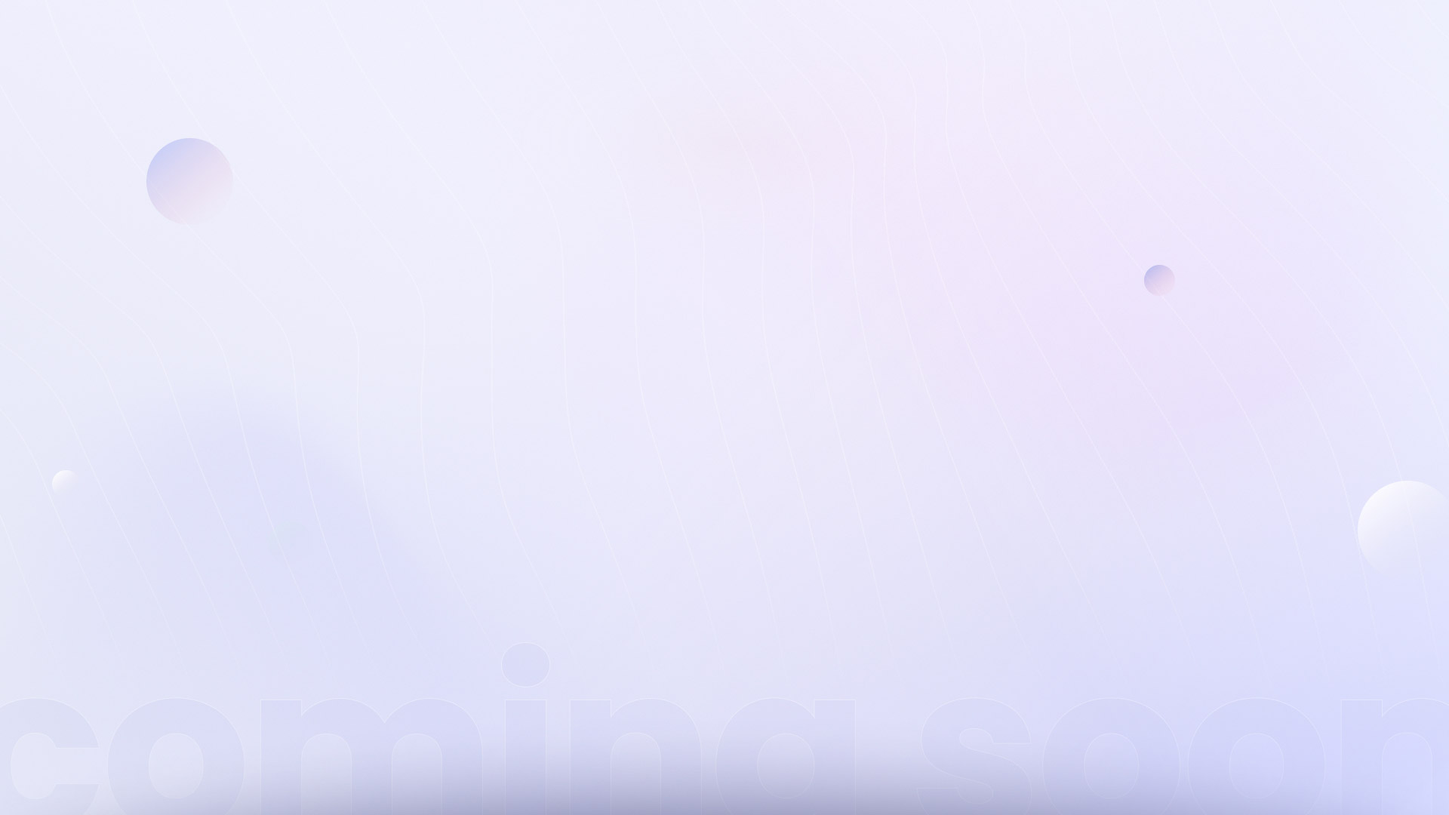
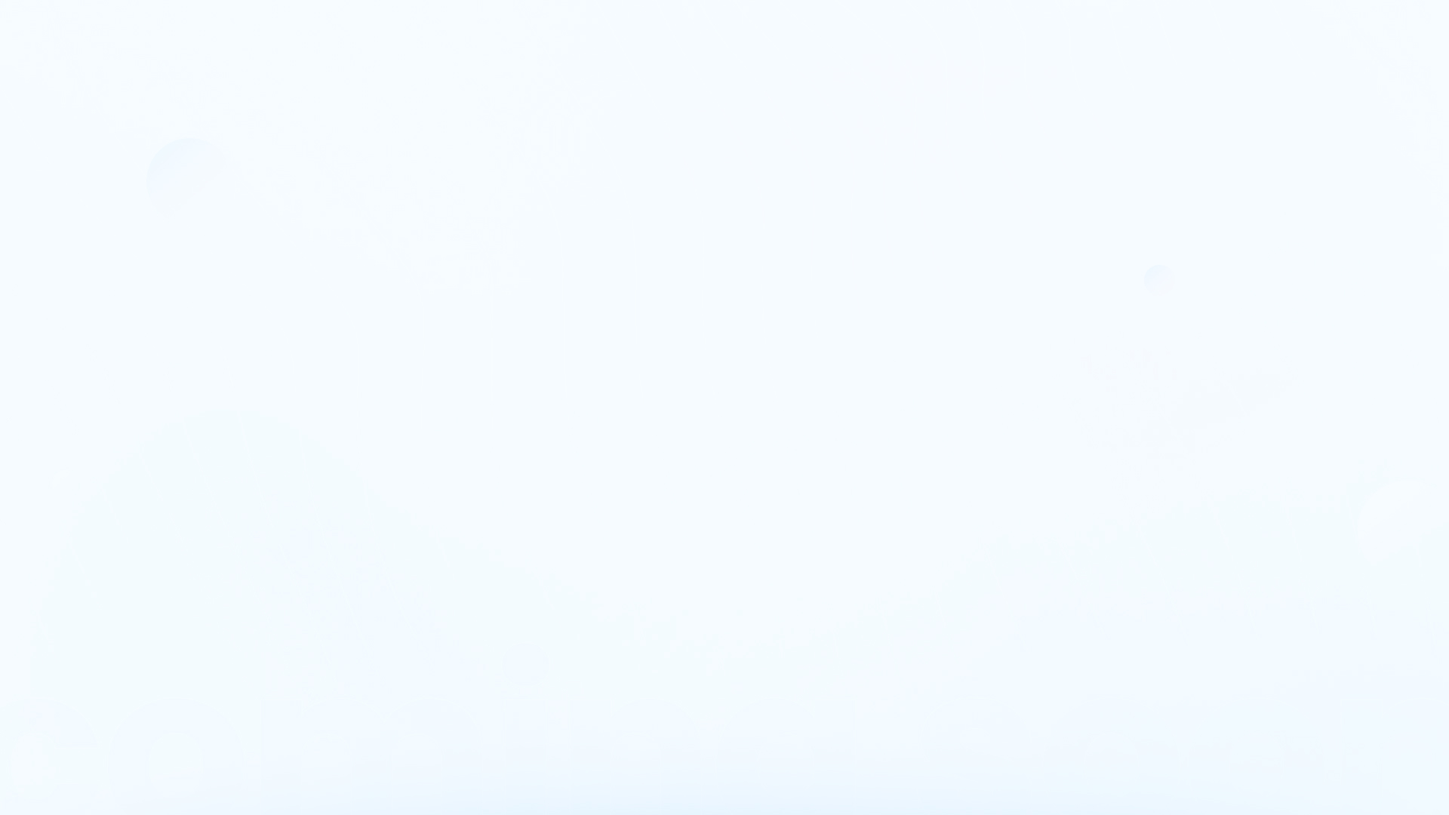
coming soon

Changed region(s): [[0.0, 0.3972, 1.0, 1.0], [0.0938, 0.1528, 0.1562, 0.275], [0.7812, 0.3056, 0.8125, 0.3667]]

diff --git a/index.html b/index.html
@@ -16,44 +16,174 @@
         <link rel="preconnect" href="https://fonts.googleapis.com" crossorigin>
         <link rel="preconnect" href="https://fonts.gstatic.com" crossorigin>
         <!-- style sheets and font icons  -->
-        <link rel="stylesheet" href="css/vendors.min.css"/>
-        <link rel="stylesheet" href="css/icon.min.css"/>
-        <link rel="stylesheet" href="css/style.css"/>
-        <link rel="stylesheet" href="css/responsive.css"/>
+
+        <style>
+            h1,h6,p,ul{margin-top:0}.container,.row{--bs-gutter-x:1.5rem;--bs-gutter-y:0}.form-control,body{background-color:var(--bs-body-bg);color:var(--bs-body-color)}.btn,a{text-decoration:none}.btn,img{vertical-align:middle}.feather,button{text-transform:none}*,::after,::before{box-sizing:border-box}.form-control{-webkit-appearance:none;display:block}::file-selector-button,button{-webkit-appearance:button}:root{--bs-blue:#0d6efd;--bs-indigo:#6610f2;--bs-purple:#6f42c1;--bs-pink:#d63384;--bs-red:#dc3545;--bs-orange:#fd7e14;--bs-yellow:#ffc107;--bs-green:#198754;--bs-teal:#20c997;--bs-cyan:#0dcaf0;--bs-black:#000;--bs-white:#fff;--bs-gray:#6c757d;--bs-gray-dark:#343a40;--bs-gray-100:#f8f9fa;--bs-gray-200:#e9ecef;--bs-gray-300:#dee2e6;--bs-gray-400:#ced4da;--bs-gray-500:#adb5bd;--bs-gray-600:#6c757d;--bs-gray-700:#495057;--bs-gray-800:#343a40;--bs-gray-900:#212529;--bs-primary:#0d6efd;--bs-secondary:#6c757d;--bs-success:#198754;--bs-info:#0dcaf0;--bs-warning:#ffc107;--bs-danger:#dc3545;--bs-light:#f8f9fa;--bs-dark:#212529;--bs-primary-rgb:13,110,253;--bs-secondary-rgb:108,117,125;--bs-success-rgb:25,135,84;--bs-info-rgb:13,202,240;--bs-warning-rgb:255,193,7;--bs-danger-rgb:220,53,69;--bs-light-rgb:248,249,250;--bs-dark-rgb:33,37,41;--bs-primary-text-emphasis:#052c65;--bs-secondary-text-emphasis:#2b2f32;--bs-success-text-emphasis:#0a3622;--bs-info-text-emphasis:#055160;--bs-warning-text-emphasis:#664d03;--bs-danger-text-emphasis:#58151c;--bs-light-text-emphasis:#495057;--bs-dark-text-emphasis:#495057;--bs-primary-bg-subtle:#cfe2ff;--bs-secondary-bg-subtle:#e2e3e5;--bs-success-bg-subtle:#d1e7dd;--bs-info-bg-subtle:#cff4fc;--bs-warning-bg-subtle:#fff3cd;--bs-danger-bg-subtle:#f8d7da;--bs-light-bg-subtle:#fcfcfd;--bs-dark-bg-subtle:#ced4da;--bs-primary-border-subtle:#9ec5fe;--bs-secondary-border-subtle:#c4c8cb;--bs-success-border-subtle:#a3cfbb;--bs-info-border-subtle:#9eeaf9;--bs-warning-border-subtle:#ffe69c;--bs-danger-border-subtle:#f1aeb5;--bs-light-border-subtle:#e9ecef;--bs-dark-border-subtle:#adb5bd;--bs-white-rgb:255,255,255;--bs-black-rgb:0,0,0;--bs-font-sans-serif:system-ui,-apple-system,"Segoe UI",Roboto,"Helvetica Neue","Noto Sans","Liberation Sans",Arial,sans-serif,"Apple Color Emoji","Segoe UI Emoji","Segoe UI Symbol","Noto Color Emoji";--bs-font-monospace:SFMono-Regular,Menlo,Monaco,Consolas,"Liberation Mono","Courier New",monospace;--bs-gradient:linear-gradient(180deg, rgba(255, 255, 255, 0.15), rgba(255, 255, 255, 0));--bs-body-font-family:var(--bs-font-sans-serif);--bs-body-font-size:1rem;--bs-body-font-weight:400;--bs-body-line-height:1.5;--bs-body-color:#212529;--bs-body-color-rgb:33,37,41;--bs-body-bg:#fff;--bs-body-bg-rgb:255,255,255;--bs-emphasis-color:#000;--bs-emphasis-color-rgb:0,0,0;--bs-secondary-color:rgba(33, 37, 41, 0.75);--bs-secondary-color-rgb:33,37,41;--bs-secondary-bg:#e9ecef;--bs-secondary-bg-rgb:233,236,239;--bs-tertiary-color:rgba(33, 37, 41, 0.5);--bs-tertiary-color-rgb:33,37,41;--bs-tertiary-bg:#f8f9fa;--bs-tertiary-bg-rgb:248,249,250;--bs-heading-color:inherit;--bs-link-color:#0d6efd;--bs-link-color-rgb:13,110,253;--bs-link-decoration:underline;--bs-link-hover-color:#0a58ca;--bs-link-hover-color-rgb:10,88,202;--bs-code-color:#d63384;--bs-highlight-color:#212529;--bs-highlight-bg:#fff3cd;--bs-border-width:1px;--bs-border-style:solid;--bs-border-color:#dee2e6;--bs-border-color-translucent:rgba(0, 0, 0, 0.175);--bs-border-radius:0.375rem;--bs-border-radius-sm:0.25rem;--bs-border-radius-lg:0.5rem;--bs-border-radius-xl:1rem;--bs-border-radius-xxl:2rem;--bs-border-radius-2xl:var(--bs-border-radius-xxl);--bs-border-radius-pill:50rem;--bs-box-shadow:0 0.5rem 1rem rgba(0, 0, 0, 0.15);--bs-box-shadow-sm:0 0.125rem 0.25rem rgba(0, 0, 0, 0.075);--bs-box-shadow-lg:0 1rem 3rem rgba(0, 0, 0, 0.175);--bs-box-shadow-inset:inset 0 1px 2px rgba(0, 0, 0, 0.075);--bs-focus-ring-width:0.25rem;--bs-focus-ring-opacity:0.25;--bs-focus-ring-color:rgba(13, 110, 253, 0.25);--bs-form-valid-color:#198754;--bs-form-valid-border-color:#198754;--bs-form-invalid-color:#dc3545;--bs-form-invalid-border-color:#dc3545;--bs-carousel-indicator-active-bg:#fff;--bs-carousel-caption-color:#fff;--bs-breakpoint-xs:0;--bs-breakpoint-sm:576px;--bs-breakpoint-md:768px;--bs-breakpoint-lg:992px;--bs-breakpoint-xl:1200px;--bs-breakpoint-xxl:1400px;--swiper-theme-color:#007aff;--swiper-navigation-size:44px;--alt-font:"Plus Jakarta Sans",sans-serif;--primary-font:"Inter",sans-serif;--base-color:#2946f3;--white:#ffffff;--black:#000000;--red:#dc3131;--light-red:#feedec;--green:#2ebb79;--crusoe-green:#d39121;--yellow:#ffea23;--dark-gray:#232323;--medium-gray:#717580;--extra-medium-gray:#e4e4e4;--light-gray:#a8a8a8;--very-light-gray:#f7f7f7;--light-medium-gray:#eaeaeb;--charcoal-blue:#202329;--slate-blue:#262b35;--medium-slate-blue:#374162;--extra-medium-slate-blue:#23262d;--dark-slate-blue:#1f232c;--extra-dark-slate-blue:#121418;--extra-very-slate-blue:#161620;--tussock-yellow:#BC8947;--aluminium-gray:#80858F;--solitude-blue:#f0f4fd;--golden-yellow:#fd961e;--selago:#eaedff;--white-ice:#d8f5ef;--cornflower-blue:#445fed;--jade:#00AF6B;--orange:#ef991f;--majorelle-blue:#724ade;--light-majorelle-blue:#f2edfe;--spring-wood:#f9f6f3;--tropical-blue:#1ea3b1;--camarone:#20642b;--seal-brown:#0e0708;--Wasabi:#8ea63a}body{margin:0;font-family:var(--bs-body-font-family);font-size:var(--bs-body-font-size);font-weight:var(--bs-body-font-weight);line-height:var(--bs-body-line-height);text-align:var(--bs-body-text-align);-webkit-text-size-adjust:100%}h1,h6{font-weight:500;color:var(--bs-heading-color)}p,ul{margin-bottom:1rem}ul{padding-left:2rem}a{color:rgba(var(--bs-link-color-rgb),var(--bs-link-opacity,1));color:var(--medium-gray)}img{max-width:100%;height:auto}button{border-radius:0}button,input{margin:0;font-family:inherit;font-size:inherit;line-height:inherit}body,html{font-size:16px}::-moz-focus-inner{padding:0;border-style:none}::-webkit-datetime-edit-day-field,::-webkit-datetime-edit-fields-wrapper,::-webkit-datetime-edit-hour-field,::-webkit-datetime-edit-minute,::-webkit-datetime-edit-month-field,::-webkit-datetime-edit-text,::-webkit-datetime-edit-year-field{padding:0}::-webkit-inner-spin-button{height:auto}::-webkit-search-decoration{-webkit-appearance:none}::-webkit-color-swatch-wrapper{padding:0}.container,.row>*{width:100%;padding-right:calc(var(--bs-gutter-x) * .5);padding-left:calc(var(--bs-gutter-x) * .5)}::-webkit-file-upload-button{font:inherit;-webkit-appearance:button}::file-selector-button{font:inherit}.form-control{font-weight:400;line-height:1.5;-moz-appearance:none;appearance:none;background-clip:padding-box;border:var(--bs-border-width) solid var(--bs-border-color);border-radius:var(--bs-border-radius);background-position:right 20px center!important}.container{margin-right:auto;margin-left:auto}@media (min-width:576px){.container{max-width:540px}}.row{flex-wrap:wrap;display:flex;margin-top:calc(-1 * var(--bs-gutter-y));margin-right:calc(-.5 * var(--bs-gutter-x));margin-left:calc(-.5 * var(--bs-gutter-x))}.row>*{flex-shrink:0;max-width:100%;margin-top:var(--bs-gutter-y)}@media (min-width:768px){.container{max-width:720px}.col-md-12{flex:0 0 auto;width:100%}}@media (min-width:992px){.container{max-width:960px}.col-lg-10{flex:0 0 auto;width:83.33333333%}}@media (min-width:1200px){h1{font-size:2.5rem}.container{max-width:1140px}.col-xl-8{flex:0 0 auto;width:66.66666667%}}.form-control::-webkit-date-and-time-value{min-width:85px;height:1.5em;margin:0}.form-control::-webkit-datetime-edit{display:block;padding:0}.form-control::-webkit-file-upload-button{padding:.375rem .75rem;margin:-.375rem -.75rem;-webkit-margin-end:.75rem;margin-inline-end:.75rem;color:var(--bs-body-color);background-color:var(--bs-tertiary-bg);border:0 solid;border-inline-end-width:var(--bs-border-width);border-radius:0;border-color:inherit}.btn{--bs-btn-padding-x:0.75rem;--bs-btn-padding-y:0.375rem;--bs-btn-font-size:1rem;--bs-btn-font-weight:400;--bs-btn-line-height:1.5;--bs-btn-color:var(--bs-body-color);--bs-btn-bg:transparent;--bs-btn-border-width:var(--bs-border-width);--bs-btn-border-color:transparent;--bs-btn-border-radius:var(--bs-border-radius);--bs-btn-hover-border-color:transparent;--bs-btn-box-shadow:inset 0 1px 0 rgba(255, 255, 255, 0.15),0 1px 1px rgba(0, 0, 0, 0.075);--bs-btn-disabled-opacity:0.65;--bs-btn-focus-box-shadow:0 0 0 0.25rem rgba(var(--bs-btn-focus-shadow-rgb), .5);padding:var(--bs-btn-padding-y) var(--bs-btn-padding-x);font-family:var(--bs-btn-font-family);font-size:var(--bs-btn-font-size);font-weight:var(--bs-btn-font-weight);line-height:var(--bs-btn-line-height);color:var(--bs-btn-color);text-align:center;border:var(--bs-btn-border-width) solid var(--bs-btn-border-color);border-radius:var(--bs-btn-border-radius);background-color:var(--bs-btn-bg)}.fa-brands,.feather{font-style:normal;font-variant:normal;line-height:1}.align-middle{vertical-align:middle!important}.overflow-auto{overflow:auto!important}.d-inline-block{display:inline-block!important}.d-none{display:none!important}.position-relative{position:relative!important}.position-absolute{position:absolute!important}.top-0{top:0!important}.h-100{height:100%!important}.justify-content-center{justify-content:center!important}.align-items-center{align-items:center!important}.mx-auto{margin-right:auto!important;margin-left:auto!important}.mb-0{margin-bottom:0!important}.text-center{text-align:center!important}.bg-white{--bs-bg-opacity:1;background-color:rgba(var(--bs-white-rgb),var(--bs-bg-opacity))!important}button::-moz-focus-inner{padding:0;border:0}:host{position:relative;display:block;margin-left:auto;margin-right:auto;z-index:1}.fa-brands{--_fa-family:var(--fa-family, var(--fa-style-family, "Font Awesome 7 Free"));-webkit-font-smoothing:antialiased;-moz-osx-font-smoothing:grayscale;display:var(--fa-display,inline-block);font-family:var(--_fa-family);font-feature-settings:normal;font-synthesis:none;font-weight:var(--fa-style,900);text-align:center;text-rendering:auto;width:auto;--fa-family:var(--fa-family-brands);--fa-style:400}.btn,.elements-social ul li,[class*=feather]{display:inline-block}.feather,body{font-weight:400;-moz-osx-font-smoothing:grayscale;-webkit-font-smoothing:antialiased}.feather{font-family:feather!important;speak:none}:host,:root{--fa-family-brands:"Font Awesome 7 Brands";--fa-font-brands:normal 400 1em/1 var(--fa-family-brands);--fa-font-regular:normal 400 1em/1 var(--fa-family-classic);--fa-family-classic:"Font Awesome 7 Free";--fa-font-solid:normal 900 1em/1 var(--fa-family-classic);--fa-style-family-classic:var(--fa-family-classic)}.fa-twitter{--fa:""}.fa-linkedin-in{--fa:""}.fa-instagram{--fa:""}.fa-dribbble{--fa:""}.fa-facebook-f{--fa:""}@font-face{font-family:feather;src:url(../fonts/feather.eot?t=1525787366991);src:url(../fonts/feather.eot?t=1525787366991#iefix) format("embedded-opentype"),url(../fonts/feather.woff?t=1525787366991) format("woff"),url(../fonts/feather.ttf?t=1525787366991) format("truetype"),url(../fonts/feather.svg?t=1525787366991#feather) format("svg")}.icon-feather-mail:before{content:"\e88a"}body{font-family:var(--primary-font);line-height:30px;color:var(--medium-gray);word-break:break-word}section{padding-top:110px;padding-bottom:110px}[class*=" social-icon-"] ul,ul li{list-style:none}p{margin-bottom:25px}:focus-visible{outline:0}.container,.row>*{padding-right:15px;padding-left:15px}.row{margin-right:-15px;margin-left:-15px}h1,h6{margin-bottom:30px;letter-spacing:-.5px;font-weight:inherit}.fs-70,h1{font-size:4.375rem;line-height:4.375rem}h6{font-size:1.75rem;line-height:1.95rem}.text-transform-none{text-transform:none!important}.fs-14{font-size:14px}.fs-15{font-size:15px}.elements-social .dark li a,.text-dark-gray{color:var(--dark-gray)}.ls-0px{letter-spacing:0!important}.ls-minus-2px{letter-spacing:-2px!important}.icon-small{font-size:18px}.box-shadow-extra-large{-webkit-box-shadow:0 0 30px rgba(0,0,0,.08);box-shadow:0 0 30px rgba(0,0,0,.08)}.form-control,input{padding:12px 25px;width:100%;max-width:100%;resize:none;outline:0;font-size:16px;border:1px solid var(--extra-medium-gray);color:var(--medium-gray);line-height:inherit;word-break:normal}::-webkit-input-placeholder{color:var(--medium-gray)!important;text-overflow:ellipsis}::-moz-placeholder{color:var(--medium-gray)!important;text-overflow:ellipsis;opacity:1}:-ms-input-placeholder{color:var(--medium-gray)!important;text-overflow:ellipsis;opacity:1}.input-large{padding:16px 32px}.full-screen{height:100vh}[data-anime]{opacity:0}[data-anime].appear{opacity:1}.cover-background{background-repeat:no-repeat!important;background-size:cover;overflow:hidden;position:relative;background-position:center center!important}.border-color-transparent{border-color:transparent!important}.border-radius-5px{border-radius:5px!important}.border-radius-100px{border-radius:100px!important}.w-80{width:80%!important}.w-100{width:100%!important}@media (prefers-reduced-motion:no-preference){:root{scroll-behavior:smooth;scroll-behavior:auto}}.p-15px{padding:15px!important}.mt-15px{margin-top:15px!important}.mt-9{margin-top:9%!important}.mb-10px{margin-bottom:10px!important}.mb-8{margin-bottom:8%!important}.mb-9{margin-bottom:9%!important}.mb-10{margin-bottom:10%!important}.fw-600{font-weight:600!important}.fw-700{font-weight:700!important}.z-index-2{z-index:2}.btn{border:2px solid transparent;border-radius:0;text-transform:uppercase;letter-spacing:.5px;width:auto;font-family:var(--alt-font);font-weight:500}.btn i{position:relative;margin-left:6px}.btn.btn-extra-large{font-size:16px;padding:24px 46px}.left-icon i{margin-right:6px;margin-left:0}.countdown-style-03 .countdown-box{width:130px;display:inline-block;margin:0 15px;text-align:center}.countdown-style-03 .countdown-box .number{color:var(--dark-gray);font-size:4.3rem;line-height:4.3rem;font-family:var(--alt-font);letter-spacing:-1px;font-weight:700}.countdown-style-03 .countdown-box span{color:var(--medium-gray);text-transform:uppercase;font-size:14px;line-height:16px;font-weight:500}canvas{display:block;vertical-align:bottom}.elements-social ul{margin-bottom:0;list-style:none;padding:0}.elements-social ul li:first-child{margin-left:0!important}.elements-social ul li:last-child{margin-right:0!important}.elements-social ul li a{text-align:center;display:flex;align-items:center;justify-content:center}.medium-icon li{margin:0 8px}.medium-icon a{font-size:20px;width:50px;height:50px}.newsletter-style-03 input{padding-right:165px!important;padding-left:30px!important}.newsletter-style-03 .btn{position:absolute;right:0;top:0;border-radius:0 100px 100px 0;height:100%;padding:12px 35px 12px 30px}.newsletter-style-03 .form-control{background-image:inherit}@media (min-width:1400px){.col-xxl-7{flex:0 0 auto;width:58.33333333%}.container{max-width:1220px}}@media (max-width:1600px){section{padding-top:90px;padding-bottom:90px}}@media (max-width:1199px){.lg-w-100{width:100%!important}.lg-mb-15{margin-bottom:15%!important}}@media (max-width:991px){html{font-size:14px}section{padding-top:75px;padding-bottom:75px}.md-mb-50px{margin-bottom:50px!important}.md-mb-6{margin-bottom:6%!important}}@media (max-width:575px){.medium-icon li{margin:0 6px}}@media (max-width:767px){html{font-size:12px}section{padding-top:50px;padding-bottom:50px}h1,h6{margin-bottom:25px}.btn.btn-extra-large{font-size:15px;padding:20px 40px}.countdown-style-03 .countdown-box{width:50%;margin:0 0 30px}.elements-social ul li{margin-bottom:20px}.newsletter-style-03 input{padding-right:90px!important;padding-left:30px!important}.newsletter-style-03 .btn{padding:12px 30px}.newsletter-style-03 .btn i{margin-left:0;margin-right:0}.newsletter-style-03 .btn span{display:none}}
+        @font-face {
+            font-family: "feather";
+            src: url("./fonts/feather.eot?t=1525787366991"); /* IE9*/
+            src: url("./fonts/feather.eot?t=1525787366991#iefix") format("embedded-opentype"), url("./fonts/feather.woff?t=1525787366991") format("woff"), url("./fonts/feather.ttf?t=1525787366991") format("truetype"), url("./fonts/feather.svg?t=1525787366991#feather") format("svg"); /* iOS 4.1- */
+            }
+            .feather {
+            /* use !important to prevent issues with browser extensions that change fonts */
+            font-family: "feather" !important;
+            speak: none;
+            font-style: normal;
+            font-weight: normal;
+            font-variant: normal;
+            text-transform: none;
+            line-height: 1;
+            -webkit-font-smoothing: antialiased;
+            -moz-osx-font-smoothing: grayscale;
+            }
+
+            .fa-solid,
+        .fa-regular,
+        .fa-brands,
+        .fa-classic,
+        .fas,
+        .far,
+        .fab,
+        .fa {
+        --_fa-family: var(--fa-family, var(--fa-style-family, "Font Awesome 7 Free"));
+        -webkit-font-smoothing: antialiased;
+        -moz-osx-font-smoothing: grayscale;
+        display: var(--fa-display, inline-block);
+        font-family: var(--_fa-family);
+        font-feature-settings: normal;
+        font-style: normal;
+        font-synthesis: none;
+        font-variant: normal;
+        font-weight: var(--fa-style, 900);
+        line-height: 1;
+        text-align: center;
+        text-rendering: auto;
+        width: auto;
+        }
+
+        :is(.fas,
+.far,
+.fab,
+.fa-solid,
+.fa-regular,
+.fa-brands,
+.fa-classic,
+.fa)::before {
+  content: var(--fa);
+  content: var(--fa)/"";
+}
+
+            .fa-facebook-f {
+            --fa: "";
+            }
+
+            :root, :host {
+            --fa-family-brands: "Font Awesome 7 Brands";
+            --fa-font-brands: normal 400 1em/1 var(--fa-family-brands);
+            }
+
+            @font-face {
+            font-family: "Font Awesome 7 Brands";
+            font-style: normal;
+            font-weight: 400;
+            font-display: block;
+            src: url("./fonts/fa-brands-400.woff2");
+            }
+            .fab,
+            .fa-brands,
+            .fa-classic.fa-brands {
+            --fa-family: var(--fa-family-brands);
+            --fa-style: 400;
+            }
+
+            .form-control.is-invalid, .was-validated .form-control:invalid {
+  border-color: #dc3545 !important;
+}
+.btn {
+    cursor: pointer;
+}
+.btn:hover {
+  color: var(--bs-btn-hover-color);
+  background-color: var(--bs-btn-hover-bg);
+  border-color: var(--bs-btn-hover-border-color);
+}
+.header-logo {
+    height: 80px;
+}
+.fs-70, h1 {
+    font-size: 3.075rem;
+    line-height: 3.075rem;
+}
+.mb-20px {
+    margin-bottom: 20px;
+}
+
+@media (max-width: 991px) {
+
+    h6 {
+        font-size: 16px;
+        width: 80%;
+        text-align: center;
+        margin: 0 auto;
+    }
+    .countdown-style-03 .countdown-box {
+  width: 130px;
+  display: inline-block;
+  margin: 0 15px;
+  text-align: center;
+}
+.countdown-style-03 .countdown-box .number {
+  color: var(--dark-gray);
+  font-size: 3.3rem;
+  line-height: 4rem;
+  font-family: var(--alt-font);
+  letter-spacing: -1px;
+  font-weight: 700;
+}
+.countdown-style-03 .countdown-box span {
+  color: var(--medium-gray);
+  text-transform: uppercase;
+  font-size: 14px;
+  line-height: 16px;
+  font-weight: 500;
+}
+
+}
+
+
+
+        </style>
     </head>
     <body>
         <!-- start section -->  
         <section class="cover-background overflow-auto full-screen position-relative" style="background-image: url(images/coming-soon-bg.jpg);">
-            <div id="particles-style-01" class="position-absolute h-100 top-0 left-0 w-100" data-particle="true" data-particle-options='{"particles":{"number":{"value":10,"density":{"enable":true,"value_area":800}},"color":{"value":"#b0b4e2"},"shape":{"type":"circle","stroke":{"width":0,"color":"#000000"},"polygon":{"nb_sides":5},"image":{"src":"img/github.svg","width":100,"height":100}},"opacity":{"value":1,"random":false,"anim":{"enable":false,"speed":1,"opacity_min":0.1,"sync":false}},"size":{"value":4,"random":true,"anim":{"enable":false,"speed":40,"size_min":0.1,"sync":false}},"line_linked":{"enable":false,"distance":150,"color":"#ffffff","opacity":0.4,"width":1},"move":{"enable":true,"speed":6,"direction":"none","random":false,"straight":false,"out_mode":"out","bounce":false,"attract":{"enable":false,"rotateX":600,"rotateY":1200}}},"interactivity":{"detect_on":"canvas","events":{"onhover":{"enable":true,"mode":"repulse"},"onclick":{"enable":true,"mode":"push"},"resize":true},"modes":{"grab":{"distance":400,"line_linked":{"opacity":1}},"bubble":{"distance":400,"size":40,"duration":2,"opacity":8,"speed":3},"repulse":{"distance":200,"duration":0.4},"push":{"particles_nb":4},"remove":{"particles_nb":2}}},"retina_detect":true}'></div>
+            <div id="particles-style-01" class="position-absolute h-100 top-0 left-0 w-100" data-particle="true" data-particle-options='{"particles":{"number":{"value":10,"density":{"enable":true,"value_area":800}},"color":{"value":"#49d4ff"},"shape":{"type":"circle","stroke":{"width":0,"color":"#000000"},"polygon":{"nb_sides":5},"image":{"src":"img/github.svg","width":100,"height":100}},"opacity":{"value":1,"random":false,"anim":{"enable":false,"speed":1,"opacity_min":0.1,"sync":false}},"size":{"value":4,"random":true,"anim":{"enable":false,"speed":40,"size_min":0.1,"sync":false}},"line_linked":{"enable":false,"distance":150,"color":"#ffffff","opacity":0.4,"width":1},"move":{"enable":true,"speed":6,"direction":"none","random":false,"straight":false,"out_mode":"out","bounce":false,"attract":{"enable":false,"rotateX":600,"rotateY":1200}}},"interactivity":{"detect_on":"canvas","events":{"onhover":{"enable":true,"mode":"repulse"},"onclick":{"enable":true,"mode":"push"},"resize":true},"modes":{"grab":{"distance":400,"line_linked":{"opacity":1}},"bubble":{"distance":400,"size":40,"duration":2,"opacity":8,"speed":3},"repulse":{"distance":200,"duration":0.4},"push":{"particles_nb":4},"remove":{"particles_nb":2}}},"retina_detect":true}'></div>
             <div class="container h-100">
                 <div class="row align-items-center justify-content-center h-100 z-index-2 position-relative">
                     <div class="col-md-12 col-lg-10 col-xl-8 col-xxl-7 text-center" data-anime='{ "el": "childs", "translateY": [50, 0], "opacity": [0,1], "duration": 600, "delay": 0, "staggervalue": 300, "easing": "easeOutQuad" }'>
-                        <a class="mb-10 md-mb-50px d-inline-block" href="index.html"> 
-                            <img src="images/logo-black-big.png" data-at2x="images/logo-black-big@2x.png" alt="">
+                        <a class="mb-20px d-inline-block" href="index.html"> 
+                            <img class="header-logo" src="images/celtrev-logo.png" data-at2x="images/celtrev-logo.png" alt="">
                         </a>
                         <h1 class="fw-700 fs-70 mb-10px text-dark-gray ls-minus-2px">Coming soon!</h1>
-                        <h6 class="text-dark-gray mb-0">We're getting ready to launch!</h6>
+                        <h6 class="text-dark-gray mt-15px mb-0">¡Estamos preparando una mejor experiencia para ti!</h6>
                         <div class="countdown-style-03 mb-9 mt-9">
-                            <div data-enddate="2026/08/08 12:00:00" class="countdown"></div>
+                            <div data-enddate="2025/10/22 12:00:00" class="countdown"></div>
                         </div>
-                        <div class="d-inline-block w-100 newsletter-style-03 position-relative mb-8 lg-mb-15 md-mb-6">
+                        <div class="d-inline-block w-100 newsletter-style-03 position-relative mb-8 md-mb-6">
                             <form action="email-templates/subscribe-newsletter.php" method="post" class="position-relative lg-w-100 w-80 mx-auto">
                                 <div class="position-relative">
-                                    <input class="input-large bg-white border-color-transparent w-100 border-radius-5px box-shadow-extra-large form-control required" type="email" name="email" placeholder="Enter your email address" />
+                                    <input class="input-large bg-white border-color-transparent w-100 border-radius-5px box-shadow-extra-large form-control required" type="email" name="email" placeholder="Escribe tu correo" />
                                     <input type="hidden" name="redirect" value="">
-                                    <button class="btn btn-extra-large text-dark-gray ls-0px left-icon submit text-transform-none fw-600" aria-label="submit"><i class="icon feather icon-feather-mail icon-small align-middle"></i><span>Notify me</span></button>
+                                    <button class="btn btn-extra-large text-dark-gray ls-0px left-icon submit text-transform-none fw-600" aria-label="submit"><i class="icon feather icon-feather-mail icon-small align-middle"></i><span>Notifícame</span></button>
                                 </div>
                                 <div class="form-results border-radius-100px mt-15px p-15px fs-15 w-100 text-center d-none"></div>
                             </form> 
-                            <p class="fs-14 mt-15px mb-0">Subscribe our newsletter to get update when it'll be live.</p>
+                            <p class="fs-14 mt-15px mb-0">Suscríbete para recibir un correo cuando lancemos.</p>
                         </div>
                         <div class="elements-social social-icon-style-08">
                             <ul class="medium-icon dark">
-                                <li class="mb-0"><a class="facebook" href="https://www.facebook.com/" target="_blank"><i class="fa-brands fa-facebook-f"></i></a></li>
-                                <li class="mb-0"><a class="dribbble" href="http://www.dribbble.com" target="_blank"><i class="fa-brands fa-dribbble"></i></a></li>
-                                <li class="mb-0"><a class="twitter" href="http://www.twitter.com" target="_blank"><i class="fa-brands fa-twitter"></i></a></li>
-                                <li class="mb-0"><a class="instagram" href="http://www.instagram.com" target="_blank"><i class="fa-brands fa-instagram"></i></a></li>
-                                <li class="mb-0"><a class="linkedin" href="http://www.linkedin.com" target="_blank"><i class="fa-brands fa-linkedin-in"></i></a></li>
+                                <li class="mb-0"><a class="instagram" href="https://www.instagram.com/celtrevaudiovisual" target="_blank"><i class="fa-brands fa-instagram"></i></a></li>
+                                <li class="mb-0"><a class="linkedin" href="https://www.linkedin.com/company/celtrev-audiovisual/" target="_blank"><i class="fa-brands fa-linkedin-in"></i></a></li>
                             </ul>
                         </div>
                     </div>

diff --git a/js/main.js b/js/main.js
@@ -1213,9 +1213,9 @@
         $('.countdown').each(function () {
             var _this = $(this);
             _this.countdown(_this.attr("data-enddate")).on('update.countdown', function (event) {
-                _this.html(event.strftime('' + '<div class="counter-container"><div class="countdown-box first"><div class="number">%-D</div><span>Days</span></div>' + '<div class="countdown-box"><div class="number">%H</div><span>Hours</span></div>' + '<div class="countdown-box"><div class="number">%M</div><span>Minutes</span></div>' + '<div class="countdown-box last"><div class="number">%S</div><span>Seconds</span></div></div>'));
+                _this.html(event.strftime('' + '<div class="counter-container"><div class="countdown-box first"><div class="number">%-D</div><span>Días</span></div>' + '<div class="countdown-box"><div class="number">%H</div><span>Horas</span></div>' + '<div class="countdown-box"><div class="number">%M</div><span>Minutos</span></div>' + '<div class="countdown-box last"><div class="number">%S</div><span>Segundos</span></div></div>'));
             }).on('finish.countdown', function (event) {
-                _this.html(event.strftime('' + '<div class="counter-container"><div class="countdown-box first" data-number="00"><div class="number">00</div><span>Days</span></div>' + '<div class="countdown-box"><div class="number">00</div><span>Hours</span></div>' + '<div class="countdown-box"><div class="number">00</div><span>Minutes</span></div>' + '<div class="countdown-box last"><div class="number">00</div><span>Seconds</span></div></div>'));
+                _this.html(event.strftime('' + '<div class="counter-container"><div class="countdown-box first" data-number="00"><div class="number">00</div><span>Días</span></div>' + '<div class="countdown-box"><div class="number">00</div><span>Horas</span></div>' + '<div class="countdown-box"><div class="number">00</div><span>Minutos</span></div>' + '<div class="countdown-box last"><div class="number">00</div><span>Segundos</span></div></div>'));
             });
         });
     }
